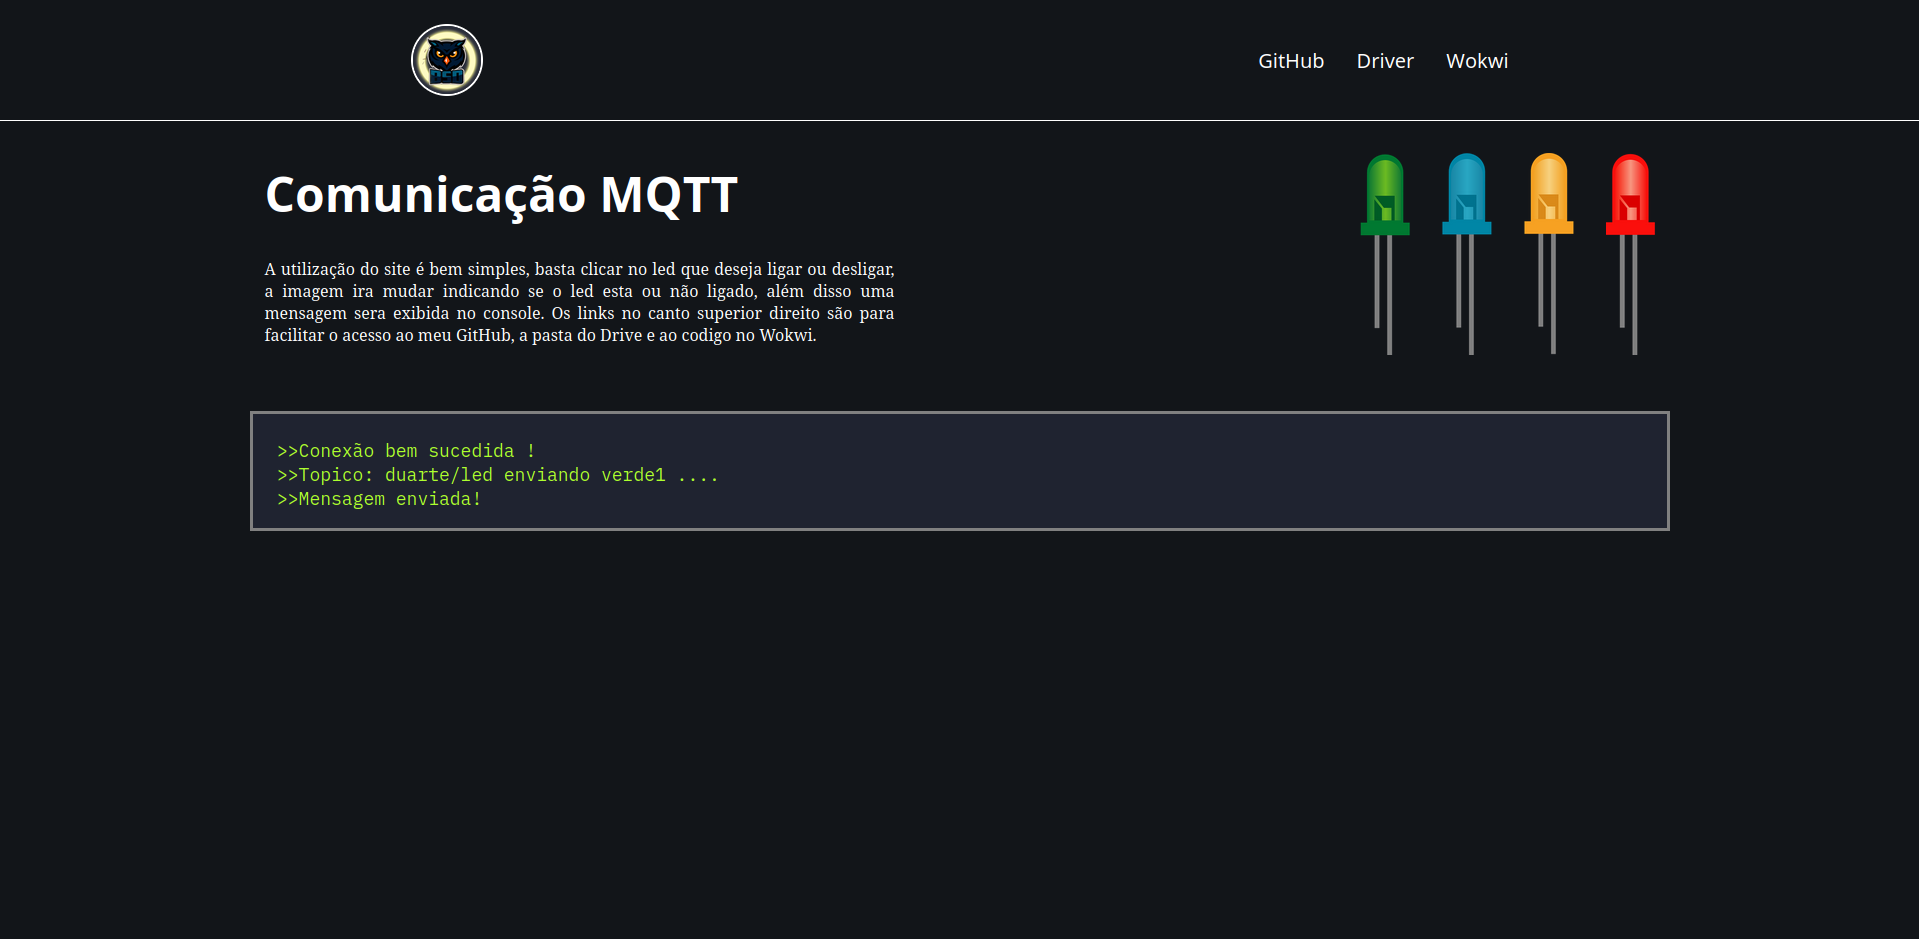
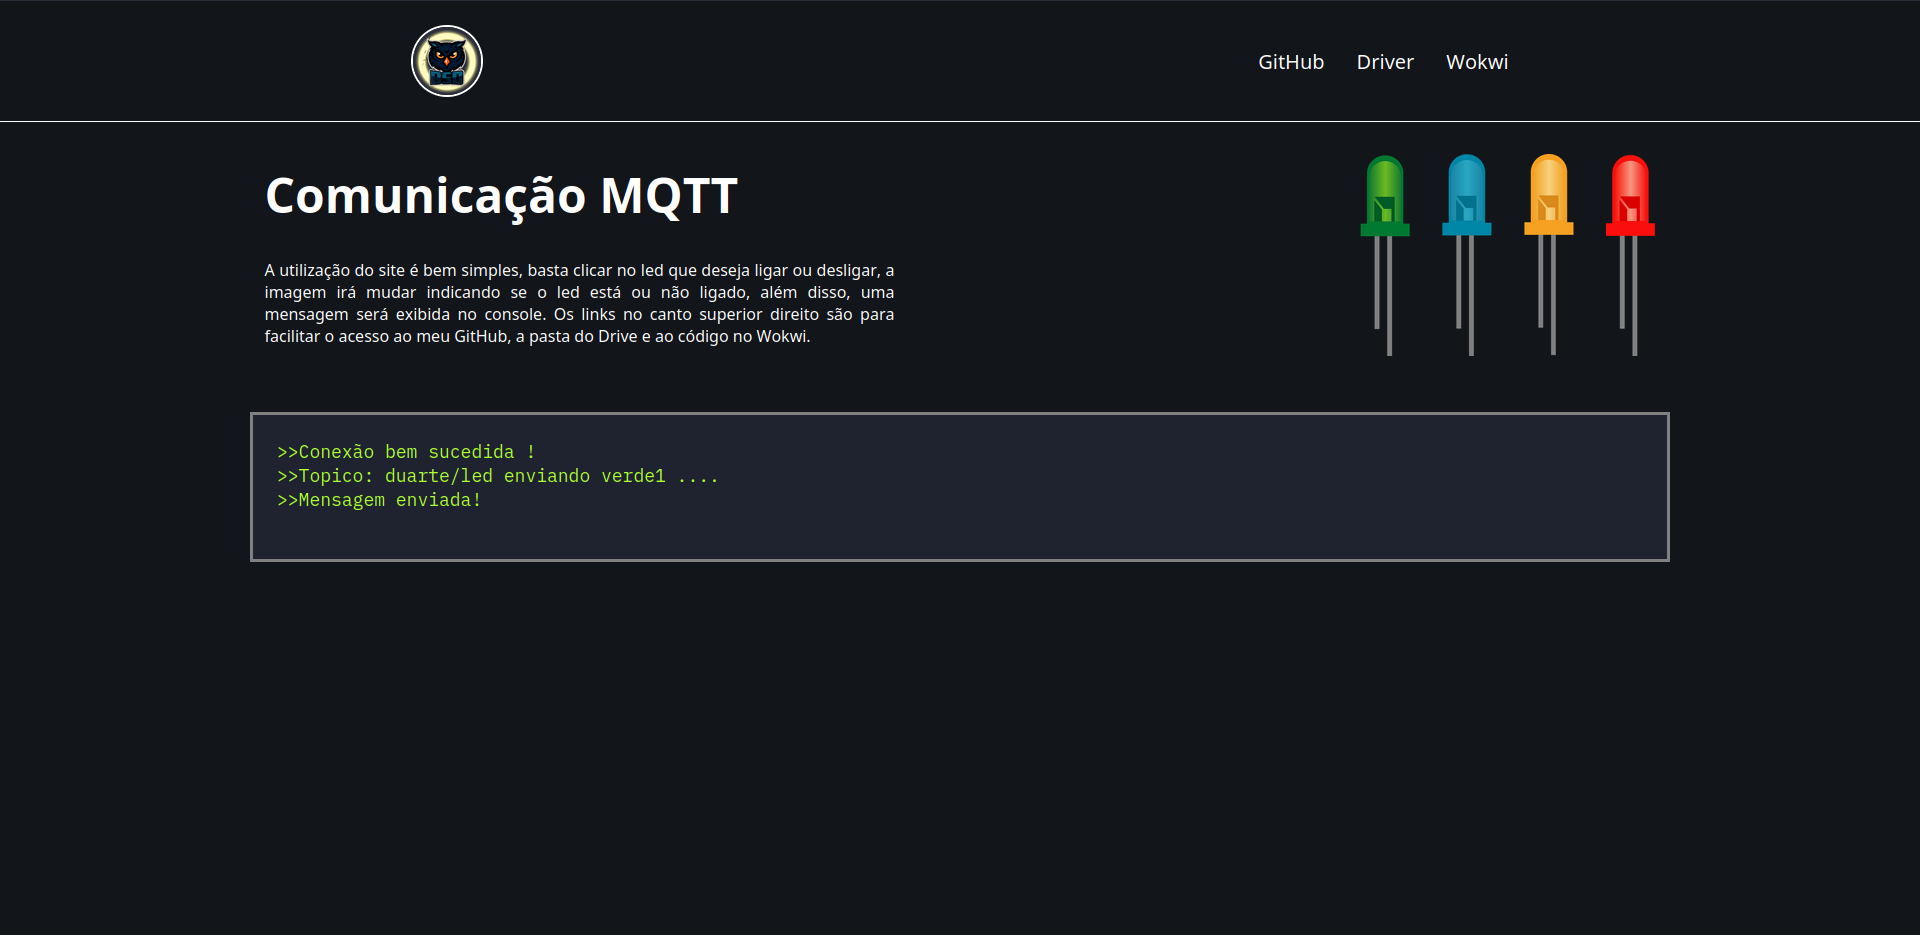
att de img e mudancas no htm e css

diff --git a/styles.css b/styles.css
@@ -49,6 +49,7 @@ body{
 }
 
 .section-principal-text{
+    font-family: 'Play', sans-serif;
     display: flex;
     flex-direction: column;
     gap: 32px;
@@ -79,7 +80,7 @@ body{
 
 .section-console{
     display: flex;
-    height: 120px;
+    height: 150px;
     padding: 24px;
     padding-top: 24px;
     margin-top: 24px;

diff --git a/index.html b/index.html
@@ -40,5 +40,5 @@
     </main>
 </body>
 
-<script src="utils.js"></script>
+<script src="main.js"></script>
 </html>
